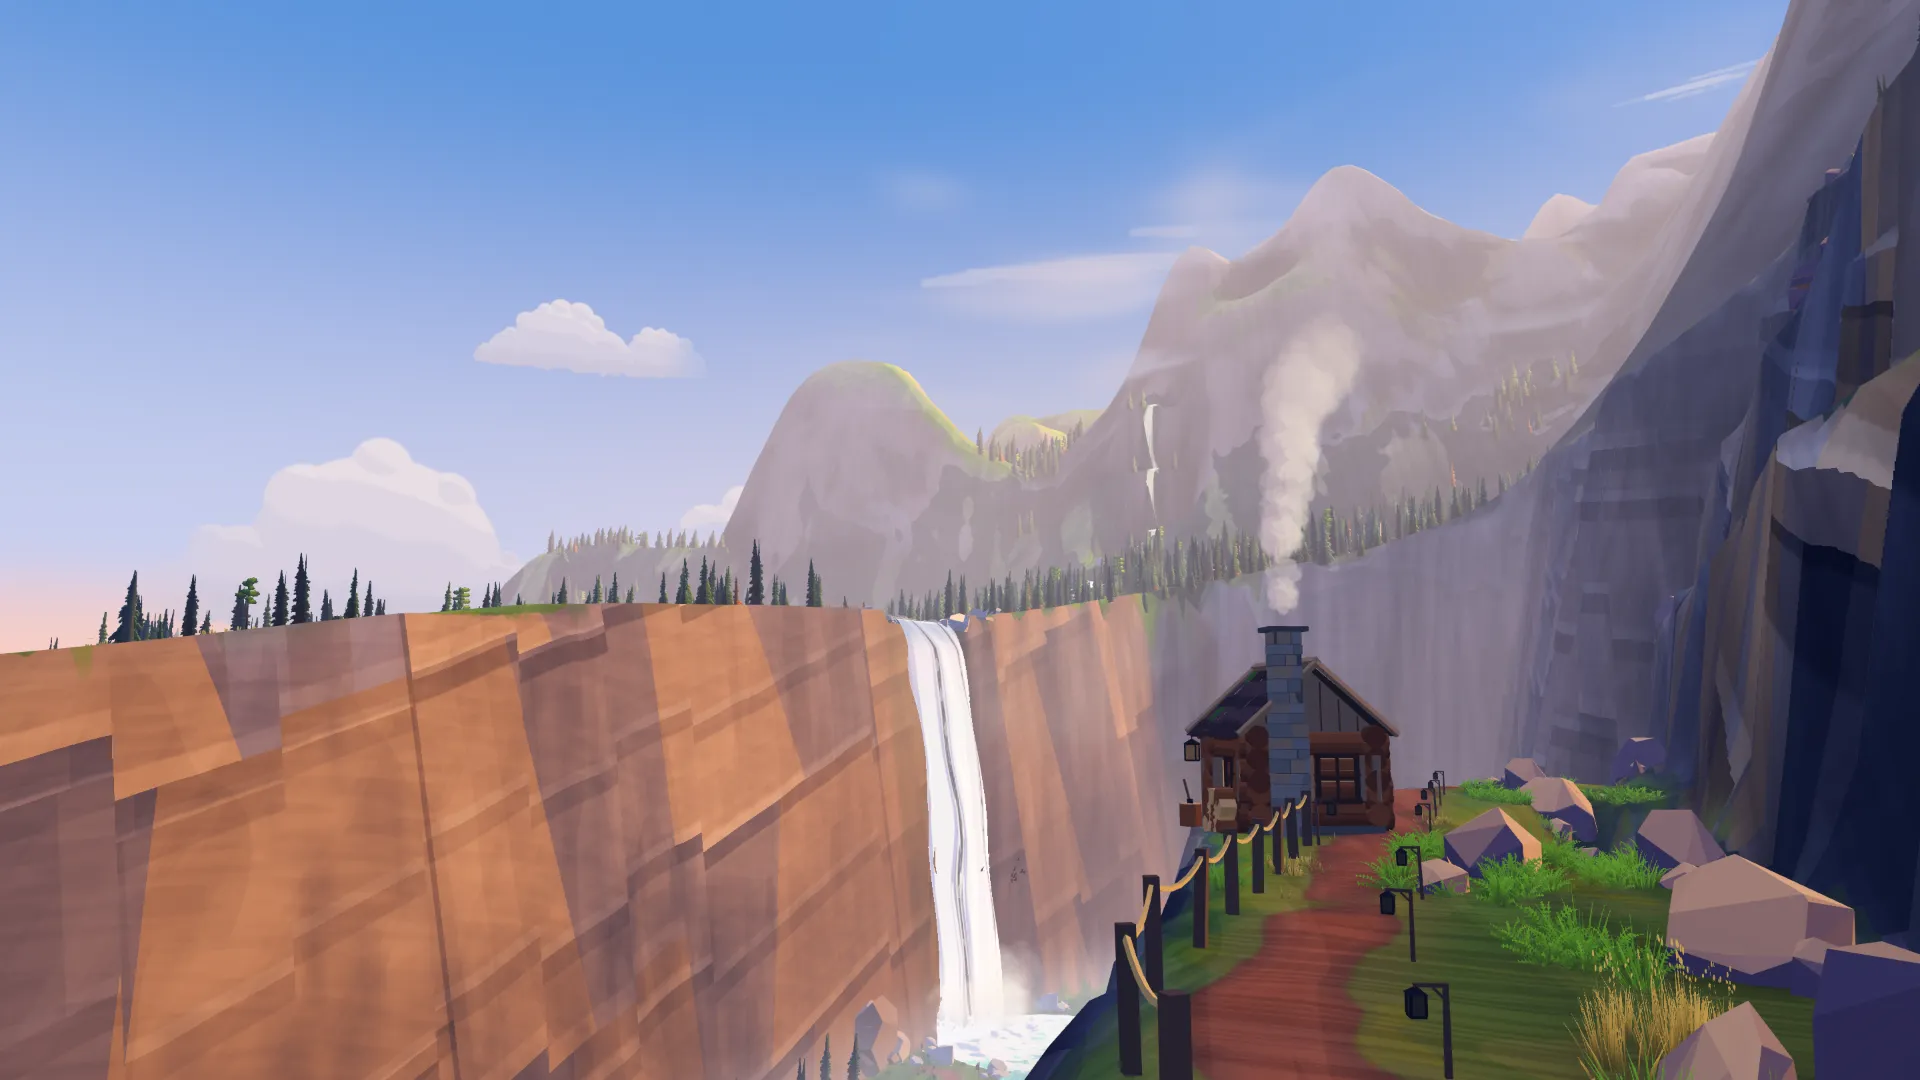
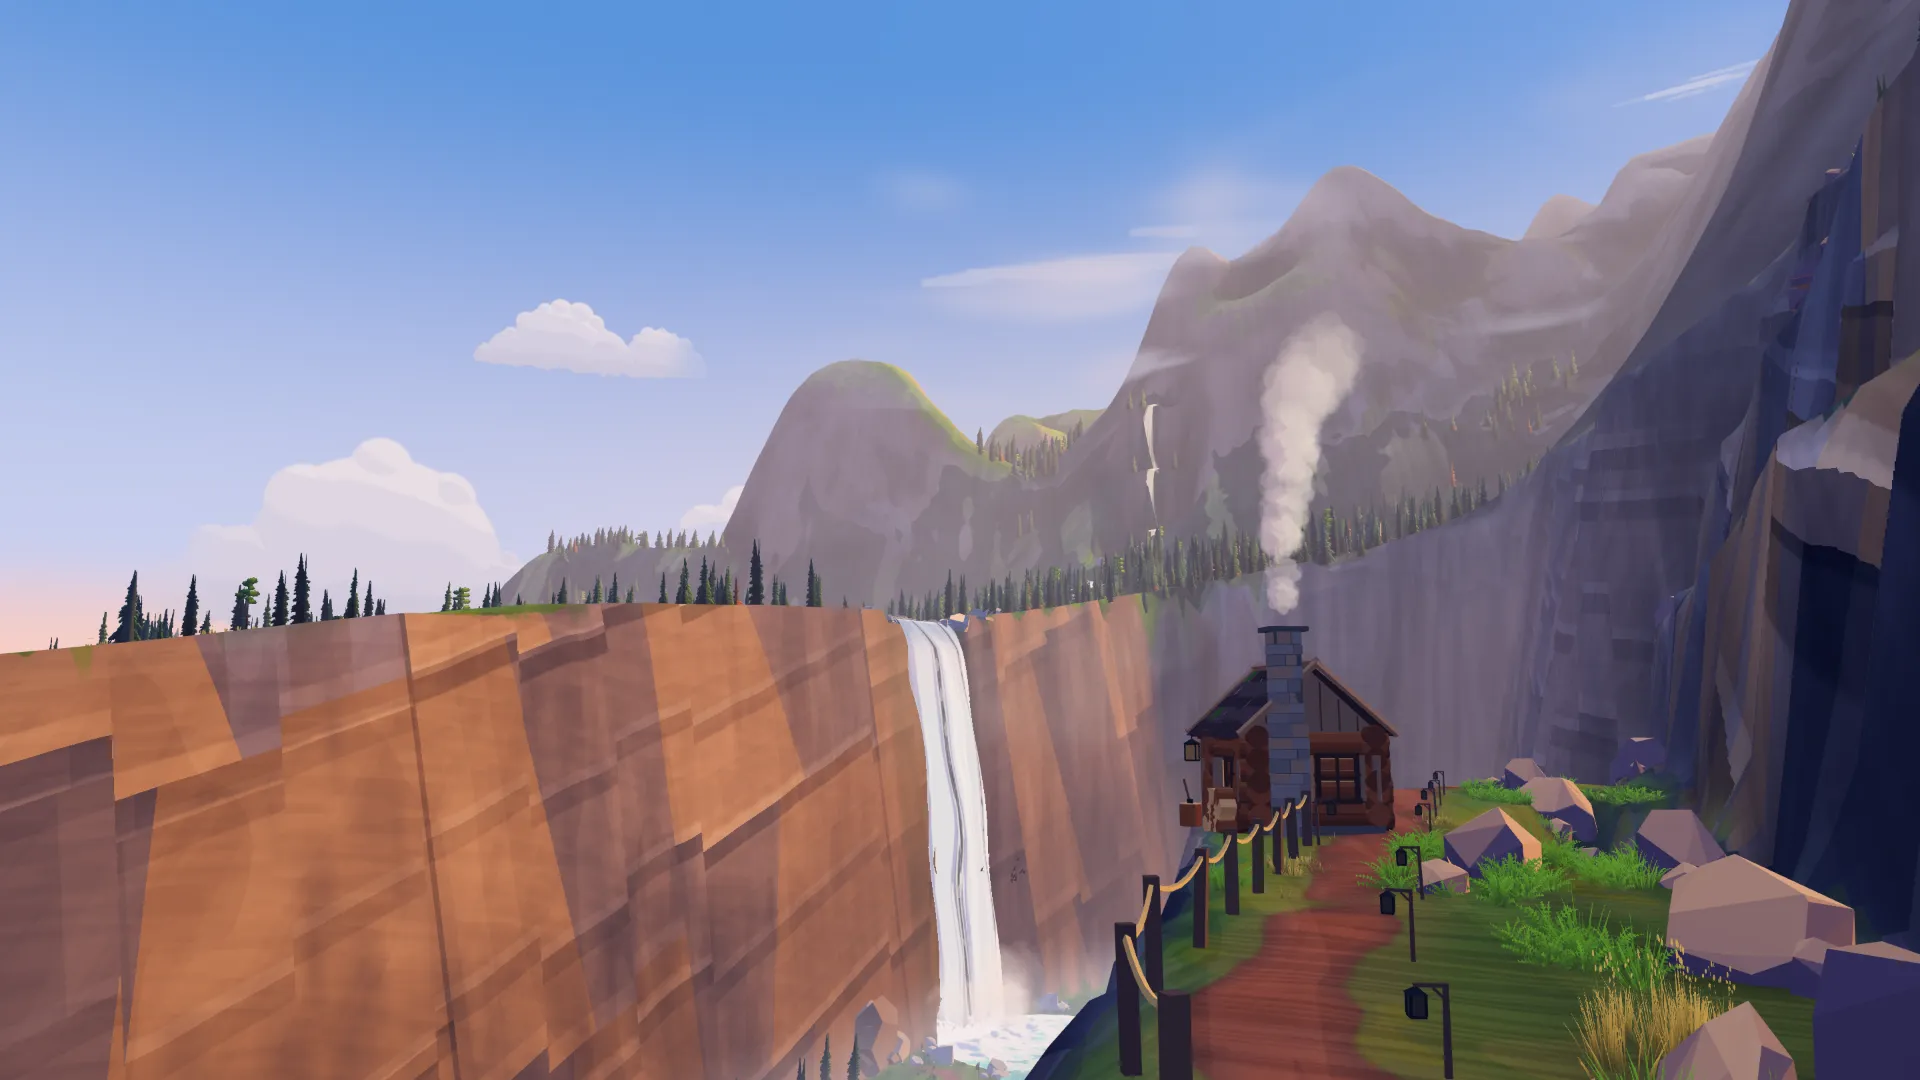
The morning's tune pass, from a critique of the 7 views at 07:30 against the day, the night and the probe the owner liked. The middle distance had gone pale and grey under the morning's mist and the day's additive fog, so the rows in MORNING_ROWS change and the base stays as it was. The opening take
The progress lanterns' halos come down to the night's alpha in the morning (progress-world.ts LOOK.haloMorningCut, by the light's state.morning): over the morning's pale sky the forest's floating steps had bloomed brighter than at dusk or at night (their cores 165 luma, they were 202; 156 at dusk).

The 7 morning posters are rendered again (845 KB for the 7, 837 KB before) with the opening's 48 px still. The dawn's poster line is measured again on the opening: 0.36 where it was 0.38, so the morning posters show from 05:35:41 (they did from 05:34:51); the morning's line stays 0.47. night-posters.test.mjs takes the new minutes. The 7 views at 15:00, 20:30 and 23:00 drawn on the real GPU are byte for byte the build's pictures.

Changed region(s): [[0.25, 0.0, 0.9688, 0.8861]]

diff --git a/src/lib/world-v6/light.ts b/src/lib/world-v6/light.ts
@@ -963,21 +963,50 @@ export const MORNING_LOOK = {
 
 /** One row per light key the opening and the first six places use (the keys between them included), as NIGHT_ROWS. */
 export const MORNING_ROWS: Partial<Record<LightWaypointKey, MorningRow>> = {
-  "opening-gold": { dial: 1 },
-  "afternoon-gold": { dial: 1 },
+  // The opening (tune pass): the base's mist lay on the tree band across the
+  // water (900 to 1100 units out) as a milky lilac veil, and the frame had no
+  // dark anchor. A thinner mist: the band 80 luma (it was 89, 67 by day). The
+  // near shade halfway back toward the day's dark one; on the 07:30 frame it
+  // measures as no change (the ramp starts at 800 units here).
+  "opening-gold": { dial: 1, look: { mist: 0.15, nearShade: 0x404a6c } },
+  // The Landing (tune pass): the mid forest went grey and the massif's lower
+  // slopes pale. A thinner mist, and less of the day's additive fog (0.3, set
+  // for a gold haze, it added pale lilac on the massif under the morning's):
+  // the massif's lower slopes 176 luma (186), the mid forest 145 (155).
+  "afternoon-gold": { dial: 1, look: { mist: 0.15, fogAdd: 0.2 } },
   afternoon: { dial: 1 },
-  "late-afternoon": { dial: 1 },
+  // The Falls (tune pass): the cliff in shade right of the falls read as a
+  // moonlit navy (the base's mossy bounce is half the fill on a vertical face,
+  // then the blue lift). A warm bounce as by day (the meadows face up and keep
+  // the sky's half, so the dew greens stay), less blue in the lift and the
+  // gain, and half the day's additive fog, which veiled the lit cliff in mauve.
+  // The shade's core now a dark violet (hue 268, sat 0.30, luma 38; it was
+  // 238 / 0.39 / 43); a lift of 0.045 blue left it indigo (258 / 0.34).
+  "late-afternoon": { dial: 1, light: { hemiGround: 0x5c4c40 }, look: { lift: [0.025, 0.02, 0.035], gain: [1.04, 1.0, 0.95], fogAdd: 0.2 } },
   // The gorge: a warmer sun and a pink haze, so the far range keeps the
   // morning's first light (with the base's lilac haze it went grey).
-  "gorge-sunset": { dial: 1, light: { sunColor: 0xffcf96, skyHorizon: 0xf6cac4, haze: 0xe0c6cc } },
+  // Tune pass: the far range was still a grey-white sheet (170 luma, sat
+  // 0.08), under the day's additive fog of 0.5 (set for a coral haze); half
+  // of it, a haze a step darker in the same rose, and the warm bounce, so the
+  // right wall's shade turns mauve brown: the range 143 luma. The blue sky and
+  // white clouds stay: they are what make this view a morning.
+  "gorge-sunset": { dial: 1, light: { sunColor: 0xffcf96, skyHorizon: 0xf6cac4, haze: 0xd6b8c2, hemiGround: 0x5c4c40 }, look: { fogAdd: 0.25 } },
   "sunset-cliff": { dial: 1 },
   // The lake: its low sun kept, cooler; a pink horizon over the water; the
   // mist a thin pink white layer on the water (the day's additive haze, 0.55,
   // greyed the far shore out under the morning's pale haze).
+  // Tune pass: the Mirror Lake had lost its mirror (a pale lilac sheet, 157
+  // luma at sat 0.08, under a white band on the far shore). The mist only
+  // from 400 units out and thinner, a thin band over the far shore and a
+  // clear mirror nearer; the lake's own colour darker in the same blue (the
+  // base's is 132 luma, the day's 57); and a rose violet haze (keep it
+  // between hue 320 and 340: toward coral it is the day's sunset again). The
+  // lake 135 luma with the forest and the hill clear in it, the far shore's
+  // band 140 (164).
   sunset: {
     dial: 1,
-    light: { skyMid: 0xd0c8ec, skyHorizon: 0xf6c8c0, skyGlow: 0xffd8b0, haze: 0xd8cce0 },
-    look: { fogAdd: 0.15, mist: 0.3, mistDepth: 18, mistNear: 150, mistFar: 700, mistColor: 0xf2e4ea },
+    light: { skyMid: 0xd0c8ec, skyHorizon: 0xf6c8c0, skyGlow: 0xffd8b0, haze: 0xd6bccb, water: 0x4c6684 },
+    look: { fogAdd: 0.15, mist: 0.16, mistDepth: 10, mistNear: 400, mistFar: 1100, mistColor: 0xf2e4ea },
   },
   // The forest: its dusk keeps the sun under the horizon and the floor dark
   // (FOREST_DIM), so its morning is the dawn's pink and blue over the trees,

diff --git a/src/lib/world-v6/progress-world.ts b/src/lib/world-v6/progress-world.ts
@@ -208,6 +208,14 @@ const LOOK = {
   haloNight: 1.4,
   haloAlphaDay: 1.35,
   haloAlphaNight: 1.0,
+  /**
+   * The share of the halo's alpha the morning takes off (light.ts
+   * state.morning; the morning's tune pass): at 1 the day's halo comes down
+   * to the night's alpha. The morning's lamps are low, so the day's halo is
+   * the one drawn, and over the morning's pale sky the floating steps' halos
+   * bloomed into white suns, brighter at 07:30 than at dusk or at night.
+   */
+  haloMorningCut: 0.26,
   /** The pools of light on the ground (final pass): strength in daylight and once the light is down. */
   poolDay: 0.32,
   poolNight: 0.62,
@@ -2316,7 +2324,8 @@ export const install: InstallFn = (ctx: WorldCtx): WorldModule => {
   let lastLevel = -1;
   let lastMagic = -1;
   let lastNight = -1;
-  const lightState = () => (scene.userData.light as { state?: { lampGlow: number; magicGlow?: number; night?: number } } | undefined)?.state;
+  let lastMorning = -1;
+  const lightState = () => (scene.userData.light as { state?: { lampGlow: number; magicGlow?: number; night?: number; morning?: number } } | undefined)?.state;
   const update = (time: number): boolean => {
     clock = time;
     let changed = dirty;
@@ -2332,12 +2341,17 @@ export const install: InstallFn = (ctx: WorldCtx): WorldModule => {
     const lg = lightState()?.lampGlow ?? 0.7;
     const night = Math.min(1, Math.max(0, (lg - 0.45) / 0.55));
     const level = Math.max(LOOK.glassFloor, lg);
-    if (Math.abs(level - lastLevel) > 1e-3) {
+    // The morning's share of the light (0 by day and at night). The glass
+    // sits at its floor both by day and in the morning, so the level alone
+    // would not notice the morning coming or going.
+    const mk = Math.min(1, Math.max(0, lightState()?.morning ?? 0));
+    if (Math.abs(level - lastLevel) > 1e-3 || Math.abs(mk - lastMorning) > 1e-3) {
       lastLevel = level;
+      lastMorning = mk;
       glassMat.uniforms.uLevel.value = level;
       if (runeMat) runeMat.uniforms.uLevel.value = level;
       haloMat.uniforms.uSize.value = LOOK.haloDay + (LOOK.haloNight - LOOK.haloDay) * night;
-      haloMat.uniforms.uAlpha.value = LOOK.haloAlphaDay + (LOOK.haloAlphaNight - LOOK.haloAlphaDay) * night;
+      haloMat.uniforms.uAlpha.value = (LOOK.haloAlphaDay + (LOOK.haloAlphaNight - LOOK.haloAlphaDay) * night) * (1 - LOOK.haloMorningCut * mk);
       poolMat.uniforms.uAlpha.value = LOOK.poolDay + (LOOK.poolNight - LOOK.poolDay) * night;
       // The next lesson's pool is boosted most in daylight, where the plain pools barely show.
       poolMat.uniforms.uNext.value = 1.6 - 0.8 * night;

diff --git a/client-tests/_gen/clock.ts b/client-tests/_gen/clock.ts
@@ -241,16 +241,20 @@ export type PosterTod = "day" | "morning" | "night";
  *            20:23:30. Measured again the same way with the morning built
  *            (2026-10-21, steps of 0.02): the opening 0.36, the rest 0.24 to
  *            0.30.
- *   dawn     the night over the morning (05:00 to 06:00, measured the same
- *            day): the opening 0.38, the Landing 0.30, Base Camp to Video Ads
- *            II 0.26 to 0.28, the Mirror Lake 0.36, the forest 0.34. On the
- *            clock: the morning posters from 05:34:51.
+ *   dawn     the night over the morning (05:00 to 06:00), measured again
+ *            after the morning's tune pass (2026-10-21, the opening's morning
+ *            with less mist; it was 0.38 before): the opening 0.36 (steps of
+ *            0.02, twice, and of 0.01), the Landing 0.32, Base Camp to Video
+ *            Ads II 0.26 to 0.28, the Mirror Lake 0.36, the forest 0.34. On
+ *            the clock: the morning posters from 05:35:41 (05:34:51 before).
  *   morning  the morning over the day (09:00 to 10:00): the opening 0.48
- *            and 0.46 (two runs; the line sits between), the Landing 0.44,
- *            Base Camp to Video Ads II 0.46 to 0.48, the Mirror Lake 0.34,
- *            the forest 0.38. On the clock: the day posters from 09:31:13.
+ *            and 0.46 (two runs; the line sits between); after the tune pass
+ *            0.48 twice at steps of 0.02 and 0.47 at steps of 0.01, so the
+ *            line stays. The Landing 0.46, Base Camp to Video Ads II 0.44 to
+ *            0.48, the Mirror Lake 0.36, the forest 0.38. On the clock: the
+ *            day posters from 09:31:13.
  */
-export const POSTER_FROM = { night: 0.34, dawn: 0.38, morning: 0.47 } as const;
+export const POSTER_FROM = { night: 0.34, dawn: 0.36, morning: 0.47 } as const;
 export type PosterFrom = { readonly night: number; readonly dawn: number; readonly morning: number };
 /** The night's line over the day (POSTER_FROM.night), as the night posters have used it since 2026-10-21. */
 export const POSTER_NIGHT_FROM = POSTER_FROM.night;

diff --git a/src/lib/world-v6/clock.ts b/src/lib/world-v6/clock.ts
@@ -241,16 +241,20 @@ export type PosterTod = "day" | "morning" | "night";
  *            20:23:30. Measured again the same way with the morning built
  *            (2026-10-21, steps of 0.02): the opening 0.36, the rest 0.24 to
  *            0.30.
- *   dawn     the night over the morning (05:00 to 06:00, measured the same
- *            day): the opening 0.38, the Landing 0.30, Base Camp to Video Ads
- *            II 0.26 to 0.28, the Mirror Lake 0.36, the forest 0.34. On the
- *            clock: the morning posters from 05:34:51.
+ *   dawn     the night over the morning (05:00 to 06:00), measured again
+ *            after the morning's tune pass (2026-10-21, the opening's morning
+ *            with less mist; it was 0.38 before): the opening 0.36 (steps of
+ *            0.02, twice, and of 0.01), the Landing 0.32, Base Camp to Video
+ *            Ads II 0.26 to 0.28, the Mirror Lake 0.36, the forest 0.34. On
+ *            the clock: the morning posters from 05:35:41 (05:34:51 before).
  *   morning  the morning over the day (09:00 to 10:00): the opening 0.48
- *            and 0.46 (two runs; the line sits between), the Landing 0.44,
- *            Base Camp to Video Ads II 0.46 to 0.48, the Mirror Lake 0.34,
- *            the forest 0.38. On the clock: the day posters from 09:31:13.
+ *            and 0.46 (two runs; the line sits between); after the tune pass
+ *            0.48 twice at steps of 0.02 and 0.47 at steps of 0.01, so the
+ *            line stays. The Landing 0.46, Base Camp to Video Ads II 0.44 to
+ *            0.48, the Mirror Lake 0.36, the forest 0.38. On the clock: the
+ *            day posters from 09:31:13.
  */
-export const POSTER_FROM = { night: 0.34, dawn: 0.38, morning: 0.47 } as const;
+export const POSTER_FROM = { night: 0.34, dawn: 0.36, morning: 0.47 } as const;
 export type PosterFrom = { readonly night: number; readonly dawn: number; readonly morning: number };
 /** The night's line over the day (POSTER_FROM.night), as the night posters have used it since 2026-10-21. */
 export const POSTER_NIGHT_FROM = POSTER_FROM.night;

diff --git a/src/components/world-v6/world.module.css b/src/components/world-v6/world.module.css
@@ -1679,7 +1679,7 @@
    poster's, made the same way from public/world-v6/posters/k0-morning.webp
    (world-tests/v6-posters.mjs --tod=morning prints it). */
 :global(html[data-world-tod="morning"]) .poster::before {
[2 lines of base64/hex data omitted]
 }
 
 /* The landing poster, the opening's, from the first paint: drawn by the
